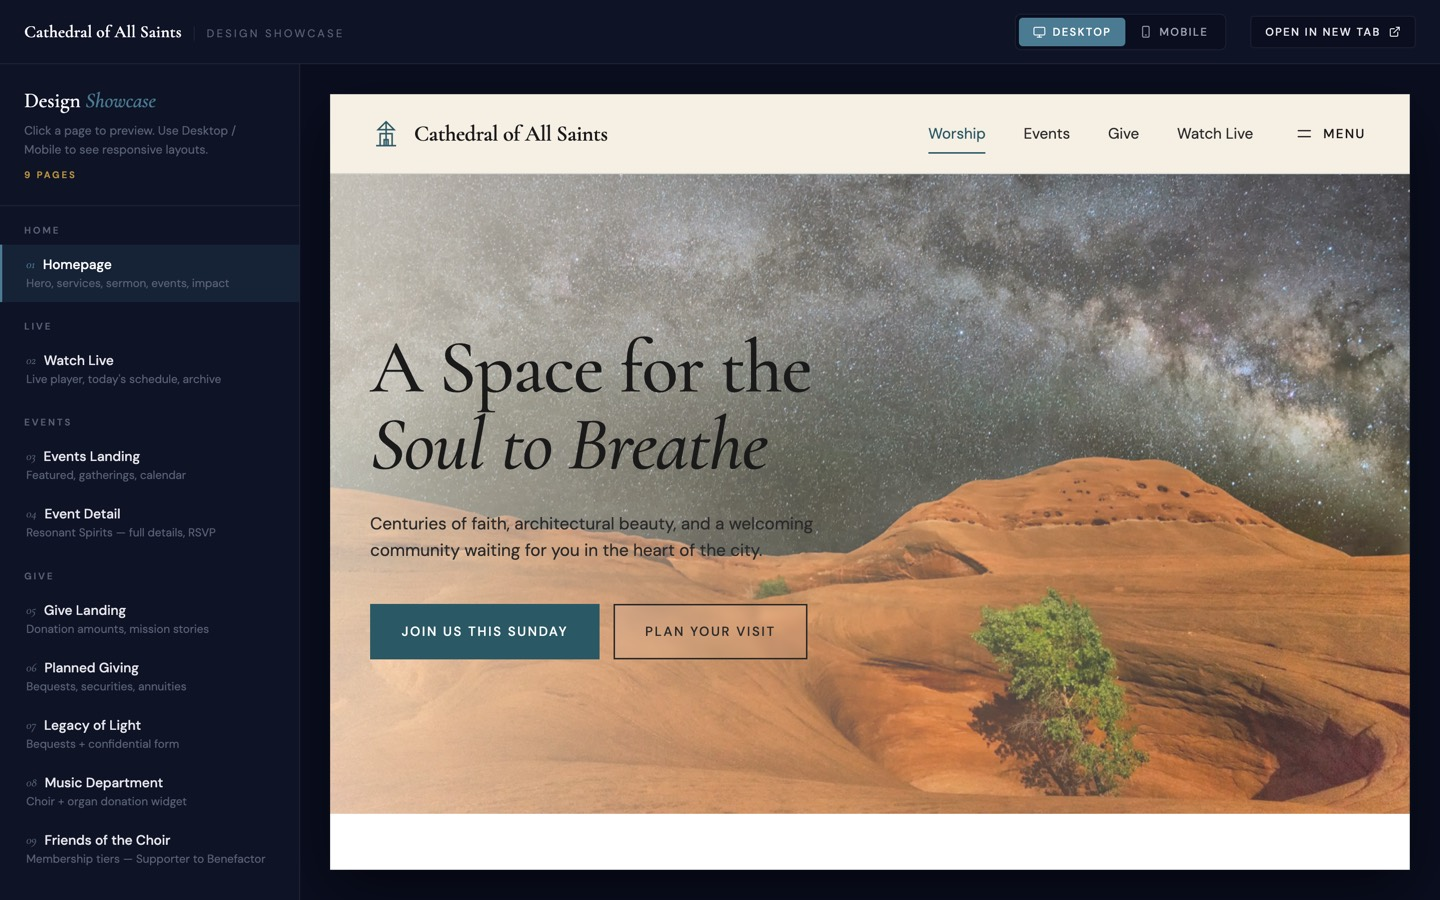
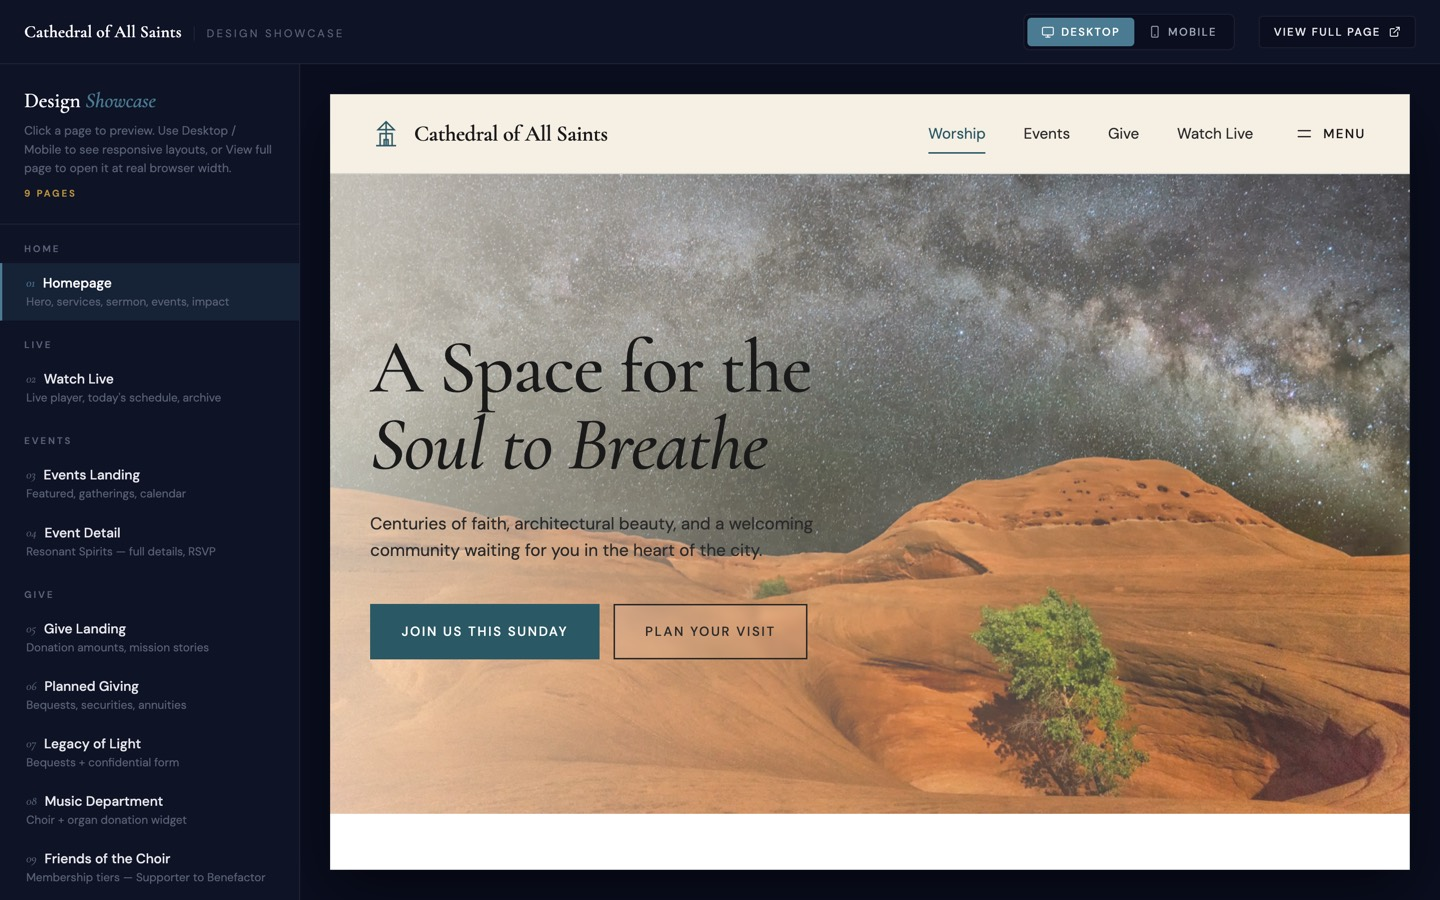
Label the showcase escape hatch for what it does
"Open in new tab" described the mechanism, not the purpose. Readers
need to know this is how to see a page at real browser width rather
than inside the preview frame, so it now reads "View full page",
with the sidebar instructions naming it alongside the other two
controls and a title attribute spelling it out on hover.

diff --git a/public/cathedral-demo/showcase.html b/public/cathedral-demo/showcase.html
@@ -314,8 +314,9 @@
       </button>
     </div>
 
-    <a href="cathedral-of-all-saints.html" target="_blank" class="external-link" id="externalLink">
-      <span>Open in new tab</span>
+    <a href="cathedral-of-all-saints.html" target="_blank" rel="noopener" class="external-link" id="externalLink"
+       title="Open this page at full browser width, outside the preview frame">
+      <span>View full page</span>
       <svg viewBox="0 0 24 24" fill="none" stroke="currentColor" stroke-width="2" stroke-linecap="round" stroke-linejoin="round">
         <path d="M18 13v6a2 2 0 0 1-2 2H5a2 2 0 0 1-2-2V8a2 2 0 0 1 2-2h6"/>
         <polyline points="15,3 21,3 21,9"/>
@@ -327,7 +328,7 @@
   <aside class="sidebar">
     <div class="sidebar-intro">
       <h2>Design <em>Showcase</em></h2>
-      <p>Click a page to preview. Use Desktop / Mobile to see responsive layouts.</p>
+      <p>Click a page to preview. Use Desktop / Mobile to see responsive layouts, or View full page to open it at real browser width.</p>
       <span class="page-count">9 Pages</span>
     </div>
 
